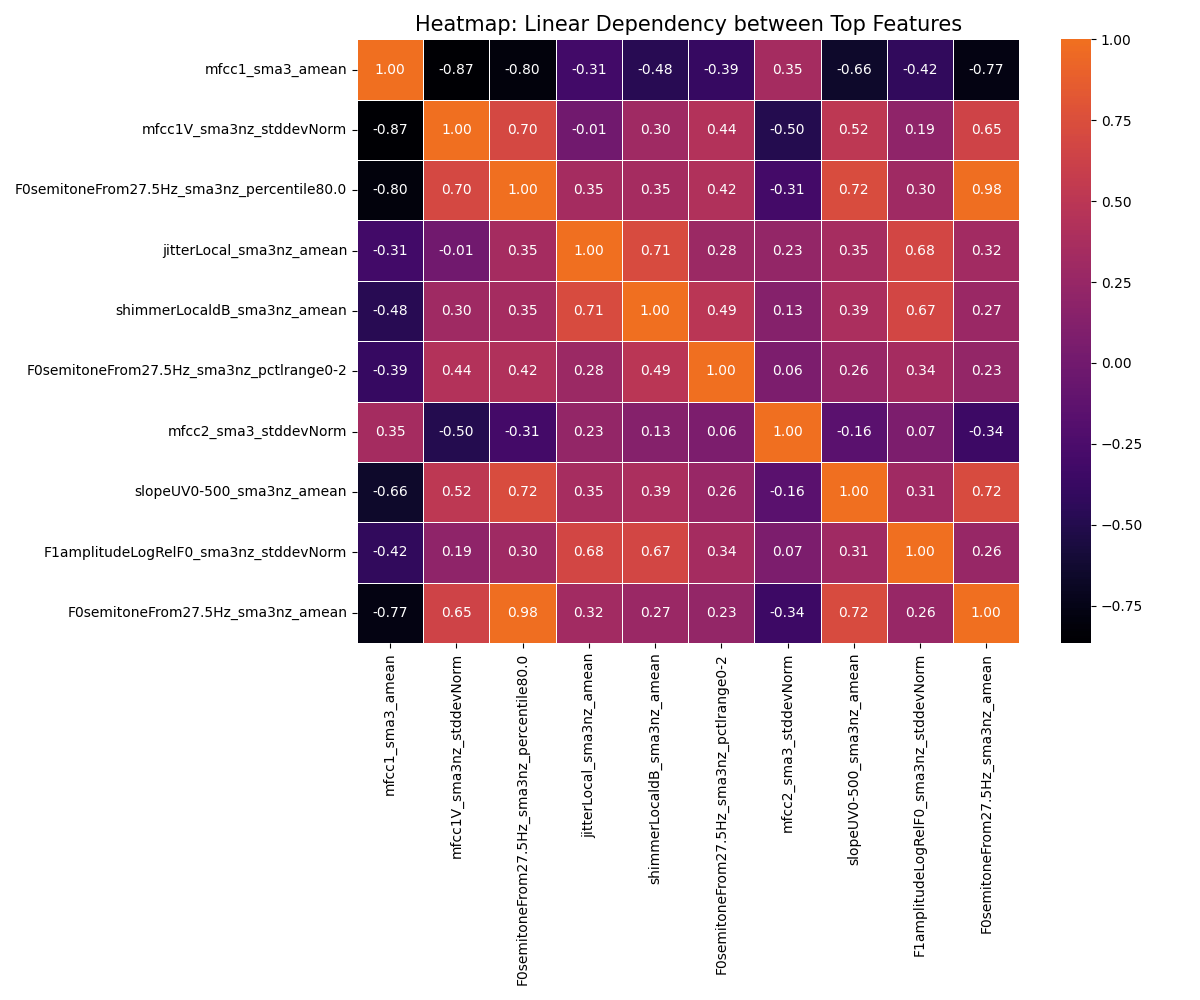
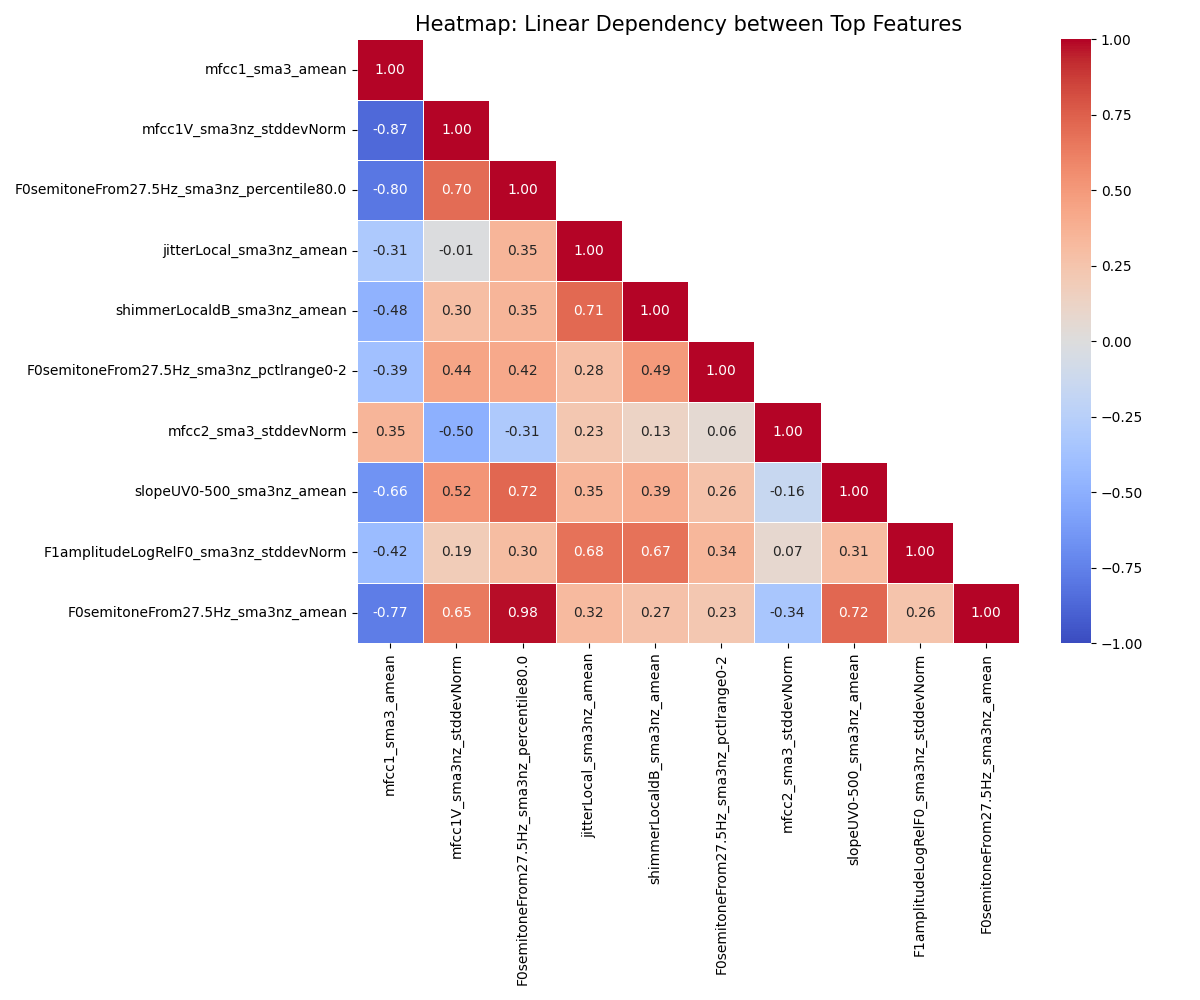
Modified file names. Modified figures for better data representation, still needs work

diff --git a/analysis_graphs/force_plot.html b/analysis_graphs/force_plot.html
@@ -1,5 +1,5 @@
 
-<div id='iD6QDAU8PHPSS6QOIHQ4C'>
+<div id='iNWPP8S9NF7H24YXJU16M'>
 <div style='color: #900; text-align: center;'>
   <b>Visualization omitted, Javascript library not loaded!</b><br>
   Have you run `initjs()` in this notebook? If this notebook was from another
@@ -10,6 +10,6 @@
  <script>
    if (window.SHAP) SHAP.ReactDom.render(
     SHAP.React.createElement(SHAP.AdditiveForceVisualizer, {"outNames": ["f(x)"], "baseValue": 0.496578841145193, "outValue": 0.48920245132728485, "link": "logit", "featureNames": ["F0semitoneFrom27.5Hz_sma3nz_amean", "F0semitoneFrom27.5Hz_sma3nz_stddevNorm", "F0semitoneFrom27.5Hz_sma3nz_percentile20.0", "F0semitoneFrom27.5Hz_sma3nz_percentile50.0", "F0semitoneFrom27.5Hz_sma3nz_percentile80.0", "F0semitoneFrom27.5Hz_sma3nz_pctlrange0-2", "F0semitoneFrom27.5Hz_sma3nz_meanRisingSlope", "F0semitoneFrom27.5Hz_sma3nz_stddevRisingSlope", "F0semitoneFrom27.5Hz_sma3nz_meanFallingSlope", "F0semitoneFrom27.5Hz_sma3nz_stddevFallingSlope", "loudness_sma3_amean", "loudness_sma3_stddevNorm", "loudness_sma3_percentile20.0", "loudness_sma3_percentile50.0", "loudness_sma3_percentile80.0", "loudness_sma3_pctlrange0-2", "loudness_sma3_meanRisingSlope", "loudness_sma3_stddevRisingSlope", "loudness_sma3_meanFallingSlope", "loudness_sma3_stddevFallingSlope", "spectralFlux_sma3_amean", "spectralFlux_sma3_stddevNorm", "mfcc1_sma3_amean", "mfcc1_sma3_stddevNorm", "mfcc2_sma3_amean", "mfcc2_sma3_stddevNorm", "mfcc3_sma3_amean", "mfcc3_sma3_stddevNorm", "mfcc4_sma3_amean", "mfcc4_sma3_stddevNorm", "jitterLocal_sma3nz_amean", "jitterLocal_sma3nz_stddevNorm", "shimmerLocaldB_sma3nz_amean", "shimmerLocaldB_sma3nz_stddevNorm", "HNRdBACF_sma3nz_amean", "HNRdBACF_sma3nz_stddevNorm", "logRelF0-H1-H2_sma3nz_amean", "logRelF0-H1-H2_sma3nz_stddevNorm", "logRelF0-H1-A3_sma3nz_amean", "logRelF0-H1-A3_sma3nz_stddevNorm", "F1frequency_sma3nz_amean", "F1frequency_sma3nz_stddevNorm", "F1bandwidth_sma3nz_amean", "F1bandwidth_sma3nz_stddevNorm", "F1amplitudeLogRelF0_sma3nz_amean", "F1amplitudeLogRelF0_sma3nz_stddevNorm", "F2frequency_sma3nz_amean", "F2frequency_sma3nz_stddevNorm", "F2bandwidth_sma3nz_amean", "F2bandwidth_sma3nz_stddevNorm", "F2amplitudeLogRelF0_sma3nz_amean", "F2amplitudeLogRelF0_sma3nz_stddevNorm", "F3frequency_sma3nz_amean", "F3frequency_sma3nz_stddevNorm", "F3bandwidth_sma3nz_amean", "F3bandwidth_sma3nz_stddevNorm", "F3amplitudeLogRelF0_sma3nz_amean", "F3amplitudeLogRelF0_sma3nz_stddevNorm", "alphaRatioV_sma3nz_amean", "alphaRatioV_sma3nz_stddevNorm", "hammarbergIndexV_sma3nz_amean", "hammarbergIndexV_sma3nz_stddevNorm", "slopeV0-500_sma3nz_amean", "slopeV0-500_sma3nz_stddevNorm", "slopeV500-1500_sma3nz_amean", "slopeV500-1500_sma3nz_stddevNorm", "spectralFluxV_sma3nz_amean", "spectralFluxV_sma3nz_stddevNorm", "mfcc1V_sma3nz_amean", "mfcc1V_sma3nz_stddevNorm", "mfcc2V_sma3nz_amean", "mfcc2V_sma3nz_stddevNorm", "mfcc3V_sma3nz_amean", "mfcc3V_sma3nz_stddevNorm", "mfcc4V_sma3nz_amean", "mfcc4V_sma3nz_stddevNorm", "alphaRatioUV_sma3nz_amean", "hammarbergIndexUV_sma3nz_amean", "slopeUV0-500_sma3nz_amean", "slopeUV500-1500_sma3nz_amean", "spectralFluxUV_sma3nz_amean", "loudnessPeaksPerSec", "VoicedSegmentsPerSec", "MeanVoicedSegmentLengthSec", "StddevVoicedSegmentLengthSec", "MeanUnvoicedSegmentLength", "StddevUnvoicedSegmentLength", "equivalentSoundLevel_dBp"], "features": {"0": {"effect": 0.00781285504061491, "value": 38.00094223022461}, "1": {"effect": 0.002261689684233694, "value": 0.0626303926110267}, "2": {"effect": 0.009213841009333784, "value": 36.32065582275391}, "3": {"effect": 0.007709640066316822, "value": 38.29261779785156}, "4": {"effect": 0.015550839855079589, "value": 39.82584762573242}, "5": {"effect": -0.00023418440014100794, "value": 3.505191802978516}, "6": {"effect": 0.0018666912420069247, "value": 70.89080047607422}, "7": {"effect": -0.0035010897571333853, "value": 103.45263671875}, "8": {"effect": -0.0024322759576587915, "value": 22.812896728515625}, "9": {"effect": -0.0012432613817967156, "value": 24.0938777923584}, "10": {"effect": -0.0018588764144080831, "value": 0.4507765173912048}, "11": {"effect": -0.0018981884744805047, "value": 0.5035884976387024}, "12": {"effect": -2.206696629857081e-05, "value": 0.2581577897071838}, "13": {"effect": -0.00666219550272886, "value": 0.4120816588401794}, "14": {"effect": -0.00240996668902951, "value": 0.608025074005127}, "15": {"effect": 0.00045433954273539883, "value": 0.3498672842979431}, "16": {"effect": -0.0006690156479611714, "value": 4.55444860458374}, "17": {"effect": -0.003171843497613387, "value": 2.638212919235229}, "18": {"effect": 0.000832044886610753, "value": 3.939610481262207}, "19": {"effect": 0.00016858586395346786, "value": 2.6235039234161377}, "20": {"effect": -0.0004093235181149796, "value": 0.1458555608987808}, "21": {"effect": -0.0044677106146609295, "value": 0.7334450483322144}, "22": {"effect": 0.02509998801449844, "value": 22.38751983642578}, "23": {"effect": -0.006345373149658606, "value": 0.3571929037570953}, "24": {"effect": 0.001401601982573036, "value": -1.7069324254989624}, "25": {"effect": -0.010970280129665437, "value": -8.055553436279297}, "26": {"effect": 0.0023134837091532564, "value": -9.74192237854004}, "27": {"effect": 0.00010876863050789589, "value": -1.2829434871673584}, "28": {"effect": 0.004142272102156129, "value": -17.396831512451172}, "29": {"effect": -0.0007171891810885209, "value": -0.8848977088928223}, "30": {"effect": -0.0032268148169517772, "value": 0.0160159785300493}, "31": {"effect": 0.000936269095086225, "value": 1.33385169506073}, "32": {"effect": -0.011201702212905682, "value": 0.8511605262756348}, "33": {"effect": 0.005905977580664308, "value": 0.7724525928497314}, "34": {"effect": 0.008282642252617057, "value": 11.04487133026123}, "35": {"effect": -0.005385894666431975, "value": 0.2495478242635727}, "36": {"effect": -0.0025633795425361785, "value": 4.2333598136901855}, "37": {"effect": 0.0006005487993248236, "value": 2.371396780014038}, "38": {"effect": 0.0015246142016944872, "value": 23.40363502502441}, "39": {"effect": -0.002204498619055186, "value": 0.3852981925010681}, "40": {"effect": 0.004363198198465647, "value": 804.1438598632812}, "41": {"effect": -0.0014601764604864245, "value": 0.2358344942331314}, "42": {"effect": 0.0002448227985540972, "value": 1308.1527099609375}, "43": {"effect": 0.011457499012360914, "value": 0.1849901676177978}, "44": {"effect": -0.00855162715801238, "value": -69.4749984741211}, "45": {"effect": -0.011158586758338094, "value": -1.1620728969573977}, "46": {"effect": 0.007150222494420341, "value": 1882.6080322265625}, "47": {"effect": -0.002553261574658736, "value": 0.128180518746376}, "48": {"effect": 0.0003764341745440882, "value": 1073.676025390625}, "49": {"effect": -0.0013152167802821576, "value": 0.3204129040241241}, "50": {"effect": -0.0047512383511933865, "value": -75.15949249267578}, "51": {"effect": -0.0045691164384033985, "value": -0.9586268663406372}, "52": {"effect": 0.0057216463022554485, "value": 2927.32177734375}, "53": {"effect": -0.002279382745214009, "value": 0.0885305106639862}, "54": {"effect": -3.973749823700534e-05, "value": 978.7811889648438}, "55": {"effect": -0.0032068085308152314, "value": 0.3602244257926941}, "56": {"effect": -0.004379019653288902, "value": -78.49419403076172}, "57": {"effect": -0.004466611033879196, "value": -0.892059862613678}, "58": {"effect": 0.0005824338823324571, "value": -18.44764518737793}, "59": {"effect": 0.0031237290956925585, "value": -0.372210830450058}, "60": {"effect": -0.001015990042964723, "value": 29.75455474853516}, "61": {"effect": -0.0020296457238387095, "value": 0.2815245389938354}, "62": {"effect": 0.0032282584738177467, "value": 0.0561467483639717}, "63": {"effect": -0.0017497204011289178, "value": 0.3577085733413696}, "64": {"effect": 0.00119656393551468, "value": -0.0202796701341867}, "65": {"effect": 0.0004955619903789559, "value": -0.6924505829811096}, "66": {"effect": -0.004769814266867729, "value": 0.1615282744169235}, "67": {"effect": 0.010825130718711993, "value": 0.6936922669410706}, "68": {"effect": 0.010942231692376098, "value": 23.669099807739254}, "69": {"effect": 0.01630491864584279, "value": 0.325150191783905}, "70": {"effect": -0.0010551487859698548, "value": -2.665596008300781}, "71": {"effect": -0.005263125202989461, "value": -5.504660129547119}, "73": {"effect": 0.0014246407664761478, "value": -1.0037027597427368}, "74": {"effect": -0.004483578417149133, "value": -18.875267028808597}, "75": {"effect": -0.002407034887845502, "value": -0.8669272661209106}, "76": {"effect": -0.00639274257767095, "value": -12.713297843933104}, "77": {"effect": -0.0026176293446981878, "value": 22.275394439697266}, "78": {"effect": -0.007457740380547317, "value": 0.0446461476385593}, "79": {"effect": -0.0009517215243509893, "value": -0.0075540142133831}, "80": {"effect": -0.0007192638948516604, "value": 0.1040966063737869}, "81": {"effect": -0.0023867433525224255, "value": 3.7165510654449454}, "82": {"effect": -0.00295561718738128, "value": 2.580005168914795}, "83": {"effect": -0.0038922680085041713, "value": 0.2740384638309479}, "84": {"effect": -0.0014765595267352497, "value": 0.261038988828659}, "85": {"effect": -0.0049469384050684715, "value": 0.1013684123754501}, "86": {"effect": -0.004179679495337973, "value": 0.0702118575572967}, "87": {"effect": 7.6499990737756e-05, "value": -21.561986923217773}}, "plot_cmap": "RdBu", "labelMargin": 20}),
-    document.getElementById('iD6QDAU8PHPSS6QOIHQ4C')
+    document.getElementById('iNWPP8S9NF7H24YXJU16M')
   );
 </script>

diff --git a/6_graphics.py b/6_graphics.py
@@ -162,8 +162,16 @@ plt.show()
 top_features = feature_importance_df['Feature'].head(10).tolist()
 corr_matrix = pd.DataFrame(X_train, columns=X.columns)[top_features].corr()
 
+# Get the min and max values for proper color scaling
+vmin = corr_matrix.values.min()
+vmax = corr_matrix.values.max()
+# Center the colormap at 0 (so white is at 0)
+abs_max = max(abs(vmin), abs(vmax))
+
 plt.figure(figsize=(12, 10))
-sns.heatmap(corr_matrix, annot=True, cmap='inferno', center=0.5, fmt=".2f", linewidths=0.5)
+# Create a mask for the upper triangle (excluding diagonal)
+mask = np.triu(np.ones_like(corr_matrix, dtype=bool), k=1)
+sns.heatmap(corr_matrix, annot=True, cmap='coolwarm', vmin=-abs_max, vmax=abs_max, center=0, fmt=".2f", linewidths=0.5, mask=mask)
 plt.title("Heatmap: Linear Dependency between Top Features", fontsize=15)
 plt.tight_layout()
 plt.savefig('analysis_graphs/correlation_heatmap.png')
